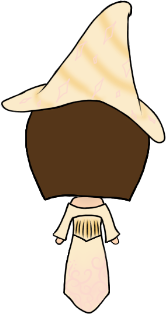
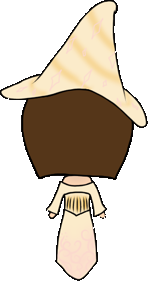
assets: replace Archmage character sprites with the new version

diff --git a/public/images/characters/build_archmage_sprite.py b/public/images/characters/build_archmage_sprite.py
@@ -1,0 +1,89 @@
+from PIL import Image
+from pathlib import Path
+from collections import deque
+
+def clean_and_crop_sprite(rgba, x_start, x_end):
+    # Crop the raw sprite from the source
+    w_src, h_src = rgba.size
+    sprite = rgba.crop((x_start, 0, x_end, h_src))
+    w, h = sprite.size
+    px = sprite.load()
+    
+    # Flood fill starting from all border pixels to make the background transparent
+    visited = [[False] * w for _ in range(h)]
+    q = deque()
+    
+    # Initialize queue with border pixels
+    for x in range(w):
+        for y in (0, h - 1):
+            q.append((x, y))
+            visited[y][x] = True
+        
+    for y in range(h):
+        for x in (0, w - 1):
+            if not visited[y][x]:
+                q.append((x, y))
+                visited[y][x] = True
+                
+    while q:
+        cx, cy = q.popleft()
+        r, g, b, a = px[cx, cy]
+        
+        # Background is dark brown close to (40, 28, 29)
+        if abs(r - 40) + abs(g - 28) + abs(b - 29) < 25:
+            px[cx, cy] = (0, 0, 0, 0)
+            
+            # Check 4-connected neighbors
+            for dx, dy in ((1, 0), (-1, 0), (0, 1), (0, -1)):
+                nx, ny = cx + dx, cy + dy
+                if 0 <= nx < w and 0 <= ny < h:
+                    if not visited[ny][nx]:
+                        visited[ny][nx] = True
+                        q.append((nx, ny))
+                        
+    # Crop to actual visible bounding box of the non-transparent pixels
+    min_x = min_y = 10**9
+    max_x = max_y = -1
+    for y in range(h):
+        for x in range(w):
+            if px[x, y][3] > 0:  # Alpha > 0
+                min_x = min(min_x, x)
+                max_x = max(max_x, x)
+                min_y = min(min_y, y)
+                max_y = max(max_y, y)
+                
+    if max_x >= min_x and max_y >= min_y:
+        return sprite.crop((min_x, min_y, max_x + 1, max_y + 1))
+    return sprite
+
+def main():
+    here = Path(__file__).resolve().parent
+    src = here / "archmage-source.png"
+    
+    if not src.is_file():
+        print("Missing archmage-source.png")
+        return 1
+        
+    im = Image.open(src)
+    rgba = im.convert("RGBA")
+    
+    # Precise active boundaries of the 4 sprites in archmage-source.png
+    sprite1 = clean_and_crop_sprite(rgba, 20, 170)
+    sprite2 = clean_and_crop_sprite(rgba, 240, 400)
+    sprite3 = clean_and_crop_sprite(rgba, 500, 610)
+    sprite4 = clean_and_crop_sprite(rgba, 730, 840)
+    
+    sprite1.save(here / "archmage-1.png", optimize=True)
+    sprite2.save(here / "archmage-2.png", optimize=True)
+    sprite3.save(here / "archmage-3.png", optimize=True)
+    sprite4.save(here / "archmage-4.png", optimize=True)
+    
+    print(f"Successfully sliced archmage-source.png into four separate, transparent sprites!")
+    print(f"archmage-1 size: {sprite1.size}")
+    print(f"archmage-2 size: {sprite2.size}")
+    print(f"archmage-3 size: {sprite3.size}")
+    print(f"archmage-4 size: {sprite4.size}")
+    return 0
+
+if __name__ == "__main__":
+    main()
